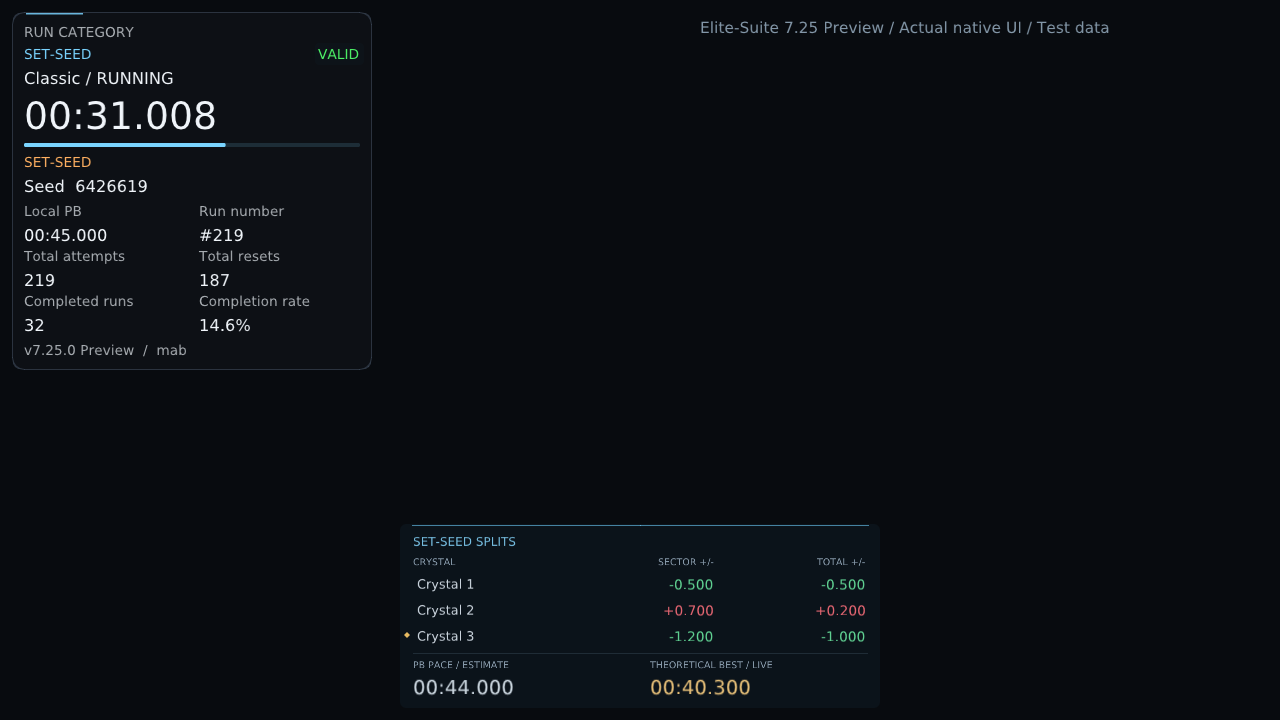
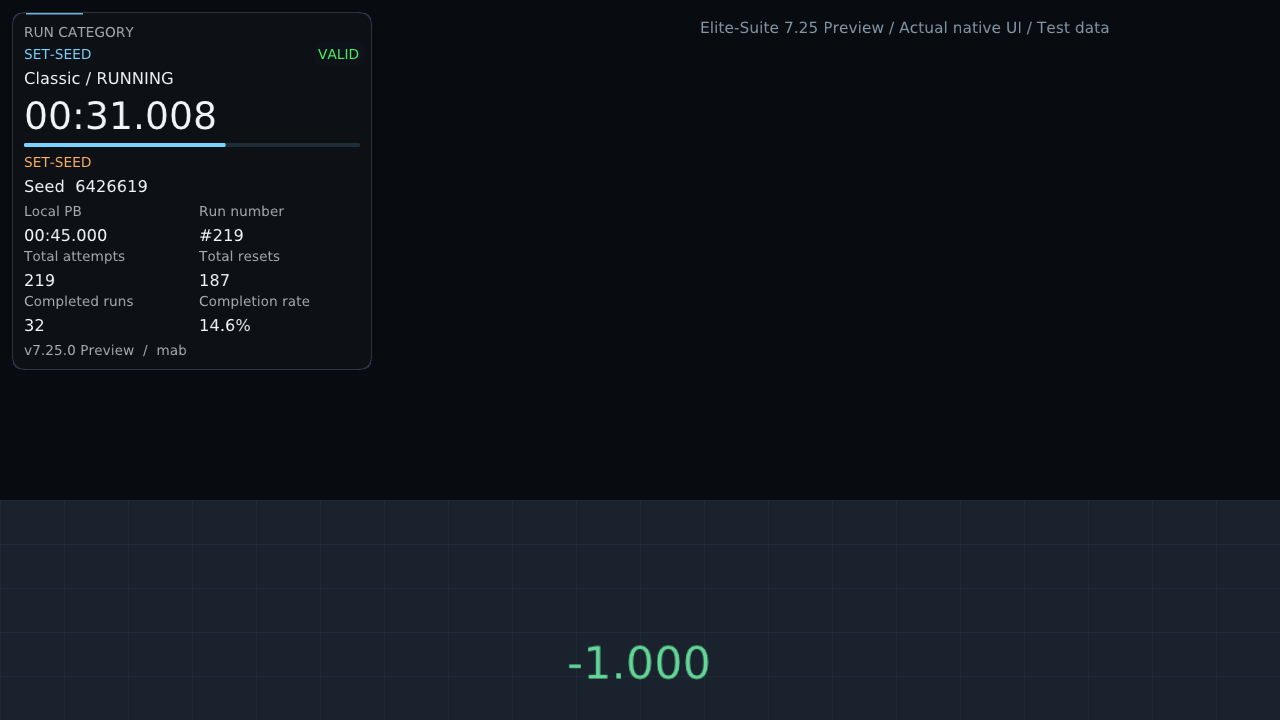
Default live splits to the latest delta as transparent text

Changed region(s): [[0.0, 0.6722, 1.0, 1.0]]

diff --git a/Trainer/SplitPanel.h b/Trainer/SplitPanel.h
@@ -13,6 +13,10 @@ inline void ResetPresentation(ReplayPreferences &p)
     p.splitRows = defaults.splitRows; p.splitX = defaults.splitX; p.splitY = defaults.splitY;
     p.splitScale = defaults.splitScale; p.splitWidth = defaults.splitWidth; p.splitOpacity = defaults.splitOpacity;
     p.splitPace = defaults.splitPace; p.splitTheory = defaults.splitTheory;
+    p.splitStyle = defaults.splitStyle; p.splitMetric = defaults.splitMetric; p.splitAnimation = defaults.splitAnimation;
+    p.splitTextSize = defaults.splitTextSize; p.splitDuration = defaults.splitDuration;
+    p.splitBackgroundOpacity = defaults.splitBackgroundOpacity;
+    p.splitAhead = defaults.splitAhead; p.splitBehind = defaults.splitBehind; p.splitEqual = defaults.splitEqual;
 }
 inline void Settings(ReplayPreferences &p)
 {
@@ -21,6 +25,14 @@ inline void Settings(ReplayPreferences &p)
     ImGui::TextDisabled("Display");
     ImGui::SetNextItemWidth(-1);
     ImGui::Combo("##SplitDisplay", &p.splitPlacement, places, 3);
+    const char *styles[] = {"Delta text / transparent", "Compact panel"};
+    ImGui::TextDisabled("Style"); ImGui::SetNextItemWidth(-1); ImGui::Combo("##SplitStyle", &p.splitStyle, styles, 2);
+    if (p.splitStyle == 0)
+    {
+        const char *metrics[] = {"Crystal delta vs reference", "Sector delta vs reference", "Sector delta vs best"};
+        ImGui::TextDisabled("Compare"); ImGui::SetNextItemWidth(-1); ImGui::Combo("##SplitMetric", &p.splitMetric, metrics, 3);
+        ImGui::TextDisabled("Latest crystal only / no background");
+    }
     suite_ui::Checkbox("Projected finish / pace", &p.splitPace);
     suite_ui::Checkbox("Theoretical best", &p.splitTheory);
     ImGui::TextWrapped("Sector +/- compares the last sector with the matching PB route. Total +/- compares arrival at the same crystal. Gold marks a new local sector best.");
@@ -29,10 +41,24 @@ inline void Settings(ReplayPreferences &p)
         ImGui::TextWrapped("Pace is a forecast: reference finish plus your observed split delta. It rises if a sector takes longer than expected. Different pickup order suspends the forecast until a compatible route is used.");
         ImGui::TextWrapped("Theoretical best adds the best observed sectors on this exact seed, recipe, spawn and route, including the finish sector. Clean reset and death attempts also contribute, independently of replay retention. Live improvements are provisional until final run checks pass. Older unrecorded resets cannot be reconstructed.");
     }
+    if (p.splitStyle == 0)
+    {
+        ImGui::SliderFloat("Text size", &p.splitTextSize, 24, 96, "%.0f");
+        const char *animations[] = {"None", "Fade", "Soft pop", "Slide"};
+        ImGui::SetNextItemWidth(-1); ImGui::Combo("##SplitAnimation", &p.splitAnimation, animations, 4);
+        bool keep = p.splitDuration == 0;
+        if (suite_ui::Checkbox("Keep until next crystal", &keep)) p.splitDuration = keep ? 0 : 3;
+        if (!keep) ImGui::SliderFloat("Show seconds", &p.splitDuration, .5f, 10, "%.1f");
+        if (suite_ui::CollapsingHeader("Delta colors"))
+        {
+            ImGui::ColorEdit4("Ahead", p.splitAhead.data(), ImGuiColorEditFlags_NoInputs);
+            ImGui::ColorEdit4("Behind", p.splitBehind.data(), ImGuiColorEditFlags_NoInputs);
+            ImGui::ColorEdit4("Equal", p.splitEqual.data(), ImGuiColorEditFlags_NoInputs);
+        }
+    }
+    else ImGui::SliderFloat("Panel background", &p.splitBackgroundOpacity, 0, 1, "%.2f");
     if (p.splitPlacement != 0)
     {
-        ImGui::TextDisabled("Visible crystals");
-        ImGui::SetNextItemWidth(-1); ImGui::SliderInt("##SplitRows", &p.splitRows, 1, 6);
         if (suite_ui::Button("Bottom center")) { p.splitX = .5f; p.splitY = 1; }
         if (suite_ui::CollapsingHeader("Position / size / opacity"))
         {
@@ -50,7 +76,7 @@ inline suite_hud::Rect PanelBounds(const ReplayPreferences &p)
     auto viewport = suite_hud::canvas.active ? ImVec2(suite_hud::canvas.w, suite_hud::canvas.h) : ImGui::GetIO().DisplaySize;
     float preview = suite_hud::canvas.active ? suite_hud::canvas.scale : 1;
     float margin = 12 * preview;
-    float nominal = 54.f + p.splitRows * 26.f + (p.splitPace || p.splitTheory ? 52.f : 10.f);
+    float nominal = (p.splitStyle == 0 ? p.splitTextSize * 1.35f : 80.f) + (p.splitPace || p.splitTheory ? 52.f : 10.f);
     float width = std::min(p.splitWidth * p.splitScale * g_dpiScale * preview, std::max(24.f, viewport.x - 2 * margin));
     float height = width / 480 * nominal;
     if (height > viewport.y - 2 * margin)
@@ -83,12 +109,12 @@ inline void DrawPanel(ImDrawList *draw, ImFont *font, suite_hud::Rect box, const
         text(edge-extent,y,size,ink,value);
     };
     draw->PushClipRect({box.x,box.y},{box.x+box.w,box.y+box.h},true);
-    draw->AddRectFilled({box.x,box.y},{box.x+box.w,box.y+box.h},color(12,20,28),6*u);
+    draw->AddRectFilled({box.x,box.y},{box.x+box.w,box.y+box.h},color(12,20,28,p.splitBackgroundOpacity),6*u);
     draw->AddLine({box.x+12*u,box.y+u},{box.x+box.w-12*u,box.y+u},color(111,209,255,.65f),u);
     text(13,10,14,color(131,211,249),demo ? "SET-SEED SPLITS / PREVIEW" : "SET-SEED SPLITS");
     text(13,32,11,color(150,170,187),"CRYSTAL");
     right(314,32,11,color(150,170,187),"SECTOR +/-"); right(466,32,11,color(150,170,187),"TOTAL +/-");
-    size_t end=rows.size(),begin=end>size_t(p.splitRows) ? end-size_t(p.splitRows) : 0;
+    size_t end=rows.size(),begin=end ? end-1 : 0;
     for (size_t i=begin;i<end;i++)
     {
         const auto &row=rows[i];
@@ -106,7 +132,7 @@ inline void DrawPanel(ImDrawList *draw, ImFont *font, suite_hud::Rect box, const
     if (rows.empty()) text(17,56,14,color(164,184,199),data.splitReferenceState==1 ? "Finding matching route..." : "Ready for the first crystal");
     if (p.splitPace || p.splitTheory)
     {
-        float y=54+float(p.splitRows)*26;
+        float y=80;
         draw->AddLine({box.x+13*u,box.y+(y-3)*u},{box.x+box.w-13*u,box.y+(y-3)*u},color(100,131,153,.25f),u);
         auto pace=Pace(data,rows,data.currentRunTimeSeconds),theory=Theoretical(data,rows);
         if (p.splitPace)
@@ -123,6 +149,61 @@ inline void DrawPanel(ImDrawList *draw, ImFont *font, suite_hud::Rect box, const
         }
     }
     draw->PopClipRect();
+}
+inline std::optional<double> Delta(const practice::PickupSplit &row, const ReplayPreferences &p)
+{
+    if (p.splitMetric == 1) return row.sectorComparable ? std::optional<double>(row.sectorDelta) : std::nullopt;
+    if (p.splitMetric == 2) return row.bestSegment >= 0 ? std::optional<double>(row.segment-row.bestSegment) : std::nullopt;
+    return row.comparable ? std::optional<double>(row.delta) : std::nullopt;
+}
+// No solid primitives in the text style: only glyph alpha reaches the game.
+inline void DrawDeltaText(ImDrawList *draw, ImFont *font, suite_hud::Rect box, const GameData &data,
+                          const ReplayPreferences &p, bool motion, double displayAge)
+{
+    const auto &rows=Live(data);
+    if (rows.empty()) return;
+    auto value=Delta(rows.back(),p);
+    if (!value || !std::isfinite(*value)) return;
+    double number=std::abs(*value)<.0005 ? 0 : *value;
+    char delta[48]; std::snprintf(delta,sizeof(delta),"%+.3f",number);
+    float enter=motion && p.splitAnimation ? float(std::clamp(displayAge/.2,0.,1.)) : 1;
+    float ease=1-(1-enter)*(1-enter)*(1-enter),alpha=ease;
+    if (p.splitDuration>0)
+    {
+        if (displayAge>=p.splitDuration) return;
+        float remaining=float(p.splitDuration-displayAge);
+        alpha*=motion ? std::clamp(remaining/std::min(.3f,p.splitDuration),0.f,1.f) : 1;
+    }
+    float u=box.w/480, size=p.splitTextSize*u;
+    if (motion && p.splitAnimation==2) size*=1+.12f*(1-ease);
+    const auto &tint=number<0 ? p.splitAhead : number>0 ? p.splitBehind : p.splitEqual;
+    auto color=ImGui::ColorConvertFloat4ToU32({tint[0],tint[1],tint[2],tint[3]*p.splitOpacity*alpha});
+    auto extent=font->CalcTextSizeA(size,FLT_MAX,0,delta);
+    float mainHeight=p.splitTextSize*1.35f*u;
+    ImVec2 at{box.x+(box.w-extent.x)*.5f,box.y+(mainHeight-extent.y)*.5f};
+    if (motion && p.splitAnimation==3) at.y+=10*u*(1-ease);
+    draw->PushClipRect({box.x,box.y},{box.x+box.w,box.y+box.h},true);
+    draw->AddText(font,size,at,color,delta);
+    float x=box.x+12*u,y=box.y+mainHeight+8*u;
+    auto summary=[&](const char *name,std::optional<double> time) {
+        std::string text=std::string(name)+" "+(time ? FormatRunTime(*time) : "--:--.---");
+        draw->AddText(font,16*u,{x,y},ImGui::GetColorU32(ImVec4(.83f,.89f,.94f,p.splitOpacity*alpha)),text.c_str());
+        x+=box.w*.5f;
+    };
+    if(p.splitPace) summary("PACE",Pace(data,rows,data.currentRunTimeSeconds));
+    if(p.splitTheory) summary("BEST",Theoretical(data,rows));
+    draw->PopClipRect();
+}
+inline double DeltaAge(const GameData &data, const ReplayPreferences &p)
+{
+    struct State { int pid=0,count=-1,metric=-1;int64_t run=0,reference=0;double started=0; };
+    static State state;
+    if(state.pid!=data.pid || state.run!=data.splitRunId || state.count!=data.splitPickupCount ||
+        state.reference!=data.splitReferenceId || state.metric!=p.splitMetric)
+    {
+        state={data.pid,data.splitPickupCount,p.splitMetric,data.splitRunId,data.splitReferenceId,ImGui::GetTime()};
+    }
+    return std::max(0.,ImGui::GetTime()-state.started);
 }
 inline GameData PreviewData(const GameData &current)
 {
@@ -149,7 +230,10 @@ inline void RenderPanel(const GameData &data, const ReplayPreferences &p, double
     ImGui::PushStyleVar(ImGuiStyleVar_WindowBorderSize,0);
     ImGui::Begin(preview ? "Editor / Splits" : "Set-Seed splits",nullptr,ImGuiWindowFlags_NoDecoration|ImGuiWindowFlags_NoInputs|
         ImGuiWindowFlags_NoSavedSettings|ImGuiWindowFlags_NoNav|ImGuiWindowFlags_NoFocusOnAppearing);
-    DrawPanel(preview ? ImGui::GetForegroundDrawList() : ImGui::GetWindowDrawList(),suite_ui::hudFont ? suite_ui::hudFont : ImGui::GetFont(),box,data,p,suite_ui::preferences.motion,preview);
+    auto *draw=preview ? ImGui::GetForegroundDrawList() : ImGui::GetWindowDrawList();
+    if (p.splitStyle == 0)
+        DrawDeltaText(draw,g_timerFont ? g_timerFont : ImGui::GetFont(),box,data,p,suite_ui::preferences.motion,preview ? .4 : DeltaAge(data,p));
+    else DrawPanel(draw,suite_ui::hudFont ? suite_ui::hudFont : ImGui::GetFont(),box,data,p,suite_ui::preferences.motion,preview);
     ImGui::Dummy({box.w,box.h}); ImGui::End(); ImGui::PopStyleVar(2); ImGui::PopStyleColor();
 }
 }

diff --git a/Trainer/ReplayPreferences.h b/Trainer/ReplayPreferences.h
@@ -1,8 +1,10 @@
 #pragma once
 #include <algorithm>
+#include <array>
 #include <cmath>
 #include <ostream>
 #include <string>
+#include <utility>
 
 struct ReplayPreferences
 {
@@ -11,16 +13,25 @@ struct ReplayPreferences
     int libraryLevel = -1, libraryCategory = -1, libraryStatus = 0, librarySort = 0;
     bool libraryAscending = false, libraryFavorites = false, liveSplits = true;
     int libraryView = 0;
-    int splitPlacement = 1, splitRows = 3; // timer / independent / both
+    int splitPlacement = 1, splitRows = 1; // timer / independent / both
     float splitX = .5f, splitY = 1.f, splitScale = 1.f, splitWidth = 480, splitOpacity = .9f;
-    bool splitPace = true, splitTheory = true;
+    bool splitPace = false, splitTheory = false;
+    int splitStyle = 0, splitMetric = 0, splitAnimation = 2;
+    float splitTextSize = 52, splitDuration = 3, splitBackgroundOpacity = .9f;
+    std::array<float,4> splitAhead{.42f,.92f,.64f,1}, splitBehind{1,.44f,.49f,1}, splitEqual{.83f,.87f,.91f,1};
 
     void Validate()
     {
         mode = std::clamp(mode, 0, 1);
         splitPlacement = std::clamp(splitPlacement, 0, 2);
-        splitRows = std::clamp(splitRows, 1, 6);
+        splitRows = 1; // Live display deliberately shows only the latest pickup.
+        splitStyle = std::clamp(splitStyle, 0, 1); splitMetric = std::clamp(splitMetric, 0, 2);
+        splitAnimation = std::clamp(splitAnimation, 0, 3);
         auto bound = [](float value, float low, float high, float fallback) { return std::isfinite(value) ? std::clamp(value, low, high) : fallback; };
+        splitTextSize = bound(splitTextSize, 24, 96, 52); splitDuration = bound(splitDuration, 0, 10, 3);
+        splitBackgroundOpacity = bound(splitBackgroundOpacity, 0, 1, .9f);
+        for (auto *color : {&splitAhead,&splitBehind,&splitEqual})
+            for (auto &v : *color) v = bound(v, 0, 1, 1);
         splitX = bound(splitX, 0, 1, .5f); splitY = bound(splitY, 0, 1, 1);
         splitScale = bound(splitScale, .6f, 1.8f, 1); splitWidth = bound(splitWidth, 320, 720, 480);
         splitOpacity = bound(splitOpacity, .1f, 1, .9f);
@@ -37,6 +48,11 @@ struct ReplayPreferences
     {
         out << "replay.mode=" << mode << "\nreplay.seconds=" << seconds << "\nreplay.crystals=" << crystals
             << '\n';
+        out << "replay.splitStyle=" << splitStyle << "\nreplay.splitMetric=" << splitMetric << "\nreplay.splitAnimation=" << splitAnimation
+            << "\nreplay.splitTextSize=" << splitTextSize << "\nreplay.splitDuration=" << splitDuration
+            << "\nreplay.splitBackgroundOpacity=" << splitBackgroundOpacity << '\n';
+        for (int i=0;i<4;i++) out << "replay.splitAhead" << i << '=' << splitAhead[i] << "\nreplay.splitBehind" << i << '=' << splitBehind[i]
+            << "\nreplay.splitEqual" << i << '=' << splitEqual[i] << '\n';
         out << "replay.splitPlacement=" << splitPlacement << "\nreplay.splitRows=" << splitRows
             << "\nreplay.splitX=" << splitX << "\nreplay.splitY=" << splitY << "\nreplay.splitScale=" << splitScale
             << "\nreplay.splitWidth=" << splitWidth << "\nreplay.splitOpacity=" << splitOpacity
@@ -51,7 +67,19 @@ struct ReplayPreferences
     {
         if (!std::isfinite(v))
             return;
-        if (key == "mode")
+        for (auto item : {std::pair{"splitAhead", &splitAhead}, std::pair{"splitBehind", &splitBehind}, std::pair{"splitEqual", &splitEqual}})
+        {
+            auto length = std::char_traits<char>::length(item.first);
+            if (key.starts_with(item.first) && key.size()==length+1 && key.back()>='0' && key.back()<='3')
+            { (*item.second)[size_t(key.back()-'0')] = float(std::clamp(v,0.,1.)); return; }
+        }
+        if (key == "splitStyle") splitStyle = int(std::clamp(v,0.,1.));
+        else if (key == "splitMetric") splitMetric = int(std::clamp(v,0.,2.));
+        else if (key == "splitAnimation") splitAnimation = int(std::clamp(v,0.,3.));
+        else if (key == "splitTextSize") splitTextSize = float(std::clamp(v,24.,96.));
+        else if (key == "splitDuration") splitDuration = float(std::clamp(v,0.,10.));
+        else if (key == "splitBackgroundOpacity") splitBackgroundOpacity = float(std::clamp(v,0.,1.));
+        else if (key == "mode")
             mode = int(std::clamp(v, 0., 1.));
         else if (key == "crystals")
             crystals = int(std::clamp(v, 1., 1000.));

diff --git a/Trainer/OverlayUI.h b/Trainer/OverlayUI.h
@@ -194,6 +194,8 @@ inline bool HudFieldAllowed(OverlayField f, bool speedrunProfile, bool clean)
     return true;
 }
 
+#include "SplitPanel.h"
+
 inline void RenderOverlayPanel(const char *name, const GameData &d, const OverlayLayout &layout,
                                bool speedrun, const std::string &mode, double age, bool compactConfig = false,
                                bool inlinePreview = false)
@@ -331,19 +333,26 @@ inline void RenderOverlayPanel(const char *name, const GameData &d, const Overla
             ImGui::Dummy({w, 5 * u});
         }
     }
-    if (speedrun && d.runCategory == 1 && d.splitReferenceId > 0 && d.splitRunId == d.reviewRunId &&
+    if (speedrun && d.runCategory == 1 && d.splitPickupCount > 0 && d.splitRunId == d.reviewRunId &&
         (d.timerState == 1 || d.timerState == 2) && suite_ui::replayPreferences.liveSplits && suite_ui::replayPreferences.splitPlacement != 1)
     {
+        const auto &preferences = suite_ui::replayPreferences;
         auto at = ImGui::GetCursorScreenPos();
         float space = viewport.y - 24 * preview - (at.y - start.y) - 72 * u;
         float splitWidth = std::min(ImGui::GetContentRegionAvail().x, 360 * u);
-        float splitHeight = std::min(145 * splitWidth / 320.f, space);
-        if (splitHeight >= 62 * splitWidth / 320.f)
+        float nominal = (preferences.splitStyle == 0 ? preferences.splitTextSize * 1.35f : 80.f) +
+                        (preferences.splitPace || preferences.splitTheory ? 52.f : 10.f);
+        float splitHeight = std::min(nominal * splitWidth / 480.f, space);
+        if (splitHeight >= 30 * splitWidth / 480.f)
         {
-            suite_splits::Draw(ImGui::GetWindowDrawList(), ImGui::GetFont(), at, splitWidth, splitHeight,
-                suite_splits::Live(d), d.currentRunTimeSeconds, d.splitReferenceValid != 0,
-                suite_ui::preferences.motion);
-            ImGui::Dummy({splitWidth, splitHeight});
+            auto *draw = ImGui::GetWindowDrawList();
+            int before = draw->VtxBuffer.Size;
+            suite_hud::Rect box{at.x,at.y,splitWidth,splitHeight};
+            if (preferences.splitStyle == 0)
+                suite_splits::DrawDeltaText(draw,g_timerFont ? g_timerFont : ImGui::GetFont(),box,d,preferences,
+                    suite_ui::preferences.motion,inlinePreview || suite_hud::canvas.active ? .4 : suite_splits::DeltaAge(d,preferences));
+            else suite_splits::DrawPanel(draw,ImGui::GetFont(),box,d,preferences,suite_ui::preferences.motion,inlinePreview);
+            if (draw->VtxBuffer.Size > before) ImGui::Dummy({splitWidth,splitHeight});
         }
     }
     const bool shortView = viewport.y < 480 * u;

diff --git a/Trainer/SplitDisplay.h b/Trainer/SplitDisplay.h
@@ -97,7 +97,7 @@ inline std::optional<double> Theoretical(const GameData &data, const std::vector
 // exported frames at the same timestamp produce the same overlay.
 inline void Draw(ImDrawList *draw, ImFont *font, ImVec2 at, float width, float height,
                  const std::vector<practice::PickupSplit> &splits, double seconds,
-                 bool verifiedReference, bool motion, float opacity = 1)
+                 bool verifiedReference, bool motion, float opacity = 1, bool latestOnly = false)
 {
     float u = width / 320.f;
     auto color = [&](int r, int g, int b, float alpha = 1.f) {
@@ -110,7 +110,7 @@ inline void Draw(ImDrawList *draw, ImFont *font, ImVec2 at, float width, float h
     size_t end = size_t(std::upper_bound(splits.begin(), splits.end(), seconds,
         [](double time, const auto &split) { return time < split.at; }) - splits.begin());
     size_t rows = std::min<size_t>(4, size_t(std::max(0.f, (height / u - 36) / 26)));
-    size_t begin = end > rows ? end - rows : 0;
+    size_t begin = latestOnly ? (end ? end - 1 : 0) : end > rows ? end - rows : 0;
     draw->AddRectFilled(at, {at.x + width, at.y + height}, color(13, 22, 30, .91f), 5 * u);
     draw->AddRectFilled(at, {at.x + 3 * u, at.y + height}, color(111, 209, 255, .8f), 2 * u);
     text(13, 9, 13, color(131, 211, 249), verifiedReference ? "SET-SEED SPLITS / PB" : "SET-SEED SPLITS / REPLAY");

diff --git a/Trainer/RunExperienceUI.h b/Trainer/RunExperienceUI.h
@@ -8,7 +8,7 @@ inline std::vector<suite_run::Rect> OccupiedPanels()
     for (const char *name : {"Minimap", "Compact HUD", "Speedrun overlay", "Set-Seed splits", "It Steals | Practice Suite"})
     {
         auto *w = ImGui::FindWindowByName(name);
-        if (w && w->LastFrameActive == ImGui::GetFrameCount() && !w->Hidden)
+        if (w && w->LastFrameActive == ImGui::GetFrameCount() && !w->Hidden && !w->DrawList->VtxBuffer.empty())
             out.push_back({w->Pos.x, w->Pos.y, w->Size.x, w->Size.y});
     }
     return out;

diff --git a/README.md b/README.md
@@ -31,7 +31,7 @@
 <!-- release:start -->
 **[v7.25.0 Preview](https://github.com/mabtm/It_Steals-Suite/releases)**
 
-- Improved live Set-Seed splits with an independently positioned panel, defaulting to the bottom center. Choose timer HUD, independent panel or both; drag, resize, undo and save the panel in the on-screen editor. Position, opacity, visible rows and pace displays persist independently of timer metrics.
+- Improved live Set-Seed splits with an independently positioned panel, defaulting to the bottom center. Choose timer HUD, independent panel or both; drag, resize, undo and save the panel in the on-screen editor. Position, text size, colors, animation, display duration, opacity and optional pace displays persist independently of timer metrics. The default is the latest crystal delta as text on a fully transparent background; a compact panel remains optional, also showing only the latest pickup.
 - Improved sector timing with separate sector and total deltas, neutral equal times and gold indicators for new observed sector bests. Sector comparisons require the same pickup prefix; same-crystal total deltas remain available when pickup order changes.
 - Improved Set-Seed pace with a checkpoint-based finish forecast that updates at crystals and increases when the current sector runs late. A changed route suspends the forecast; completed runs show their observed finish time. Forecasts are estimates, not guaranteed finish times.
 
@@ -46,11 +46,11 @@ Set-Seed is a separate local speedrun category. Choose **Set-Seed** before start
 
 The live HUD and final run check identify the recorded category. Set-Seed crystal splits use the fastest compatible completed recording (valid PB preferred), with exact mode, seed recipe, spawn and layout matching. Clip Studio enables splits by default when a reference exists; move and resize them under **Overlays**. Practice bests are stored separately and remain unranked.
 
-**Independent live splits:** open **Settings > HUD > Splits / pace**, select **Independent panel** (default) or **Both**, and use **Place split panel on screen** to drag it anywhere. The default is bottom center. Sector +/- and total +/- are separate; a gold marker indicates an observed sector best. Undo, Cancel and Apply keep editor changes separate until saved.
+**Independent live splits:** open **Settings > HUD > Splits / pace**, select **Independent panel** (default) or **Both**, and use **Place split panel on screen** to drag it anywhere. The default is only the newest signed delta as transparent text at bottom center. Choose **Delta text / transparent** or **Compact panel**, both latest-pickup-only. Text size, ahead/behind/equal colors, animation and display duration are adjustable; optional pace/theory text is hidden by default. Sector +/- and total +/- in the compact panel are separate; a gold marker indicates an observed sector best. Undo, Cancel and Apply keep editor changes separate until saved.
 
 **Pace and theoretical best:** pace uses the compatible recorded route and updates at pickups and overdue sectors. A changed pickup order searches for a compatible recorded route; until then the forecast stays unavailable. Theoretical best sums sector durations, including the final sector. In-progress improvements are provisional; only eligible Set-Seed attempts are persisted. Short resets and deaths contribute even when replay retention discards their video data. Previously retained valid replays are backfilled; unrecorded old resets cannot be reconstructed. Sector history lives in `set-seed-sectors-v1.bin` beside the game-mod statistics, separately from replay files and resettable aggregate counters.
 
-[7.25 live-split previews](assets/preview-7.25/README.md): [independent panel](assets/preview-7.25/01-independent-splits.png), [on-screen editor](assets/preview-7.25/02-split-editor.png), [settings](assets/preview-7.25/03-split-settings.png). These are captures of the production renderer with test data.
+[7.25 live-split previews](assets/preview-7.25/README.md): [independent panel](assets/preview-7.25/01-independent-splits.png), [on-screen editor](assets/preview-7.25/02-split-editor.png), [settings](assets/preview-7.25/03-split-settings.png), [optional single-split panel](assets/preview-7.25/04-compact-panel.png). These are captures of the production renderer with test data.
 
 [Preview screenshots](assets/preview-7.24/README.md) show the actual native renderer with test data: [HUD and splits](assets/preview-7.24/01-speedrun-hud.png), [replay library](assets/preview-7.24/02-replay-library.png), [run setup](assets/preview-7.24/03-run-setup.png), [run check](assets/preview-7.24/04-run-check.png).
 

diff --git a/assets/preview-7.25/README.md b/assets/preview-7.25/README.md
@@ -1,13 +1,14 @@
 # Elite-Suite 7.25 Preview
 
-These captures use the actual production ImGui renderer and synthetic test data, not a running game. The editor example also moves/scales the input display to keep its demonstration layout clear.
+Captures of the actual production renderer with synthetic test data. The background grid demonstrates transparency; it is not a running game. The editor input display is resized/repositioned for this example.
 
-- 01-independent-splits.png: Separate bottom-center Set-Seed panel, sector and total deltas, gold-sector marker, projected finish and provisional theoretical best.
-- 02-split-editor.png: Independent drag/resize placement with Undo, Cancel and Apply; timer and input panels keep separate positions.
-- 03-split-settings.png: Timer / independent / both, pace and theory options, rows, positioning, size and opacity.
+- 01-independent-splits.png: Default view, only the latest crystal's signed delta as text. No background, border, label or historical list. Pace/theory are off by default.
+- 02-split-editor.png: Drag and resize the independent text display, with Undo, Cancel and Apply. The edit frame appears only in the editor.
+- 03-split-settings.png: Transparent text or compact panel; comparison basis, text size, colors, opacity, fade/pop/slide, and optional duration or hold-until-next-crystal.
+- 04-compact-panel.png: Optional compact panel, still only the latest crystal. Pace and theoretical best are explicitly enabled in this example.
 
-Open Settings > HUD > Splits / pace. The independent panel defaults to bottom center. Only Set-Seed runs display it; stale/disconnected data is hidden.
+Open Settings > HUD > Splits / pace. The independent display defaults to bottom center. Choose crystal delta vs reference, sector delta vs reference, or sector delta vs the best observed sector. Old on-screen split lists are not retained; history remains available in replay analysis.
 
-Pace uses a compatible recorded route and responds to late sectors. Different pickup order requests a matching reference; otherwise the estimate is unavailable. Theoretical best sums segment durations, including the finish sector, on the exact mode, seed recipe, spawn, layout and route. In-progress improvements are provisional. Eligible short resets and deaths retain their sectors independently of replay retention. Earlier retained valid replay splits are imported; missing historic resets cannot be reconstructed.
+Pace is an estimate from a compatible recorded route, adjusted at pickups and overdue sectors. A route change searches for a compatible reference. Theoretical best sums clean segment durations, including the finish sector, on the exact mode/seed/recipe/spawn/layout/route. Live improvements are provisional. Eligible short resets and deaths persist independently of replay retention. Earlier retained clean replays are backfilled; missing old reset timestamps cannot be reconstructed.
 
-This remains a pre-release outside the stable updater.
+Pre-release only; excluded from stable automatic updates.

diff --git a/CHANGELOG.md b/CHANGELOG.md
@@ -4,7 +4,7 @@ Changes by version. The full development history is in Git.
 
 ### v7.25.0 Changelog
 
-- Improved live Set-Seed splits with an independently positioned panel, defaulting to the bottom center. Choose timer HUD, independent panel or both; drag, resize, undo and save the panel in the on-screen editor. Position, opacity, visible rows and pace displays persist independently of timer metrics.
+- Improved live Set-Seed splits with an independently positioned panel, defaulting to the bottom center. Choose timer HUD, independent panel or both; drag, resize, undo and save the panel in the on-screen editor. Position, text size, colors, animation, display duration, opacity and optional pace displays persist independently of timer metrics. The default is the latest crystal delta as text on a fully transparent background; a compact panel remains optional, also showing only the latest pickup.
 - Improved sector timing with separate sector and total deltas, neutral equal times and gold indicators for new observed sector bests. Sector comparisons require the same pickup prefix; same-crystal total deltas remain available when pickup order changes.
 - Improved Set-Seed pace with a checkpoint-based finish forecast that updates at crystals and increases when the current sector runs late. A changed route suspends the forecast; completed runs show their observed finish time. Forecasts are estimates, not guaranteed finish times.
 - Improved theoretical-best timing by summing the best observed sector durations on the exact seed, recipe, spawn, layout and route, including the finish sector. Zero-duration simultaneous pickups and finishes remain valid. In-progress improvements stay provisional until final eligibility checks pass.
